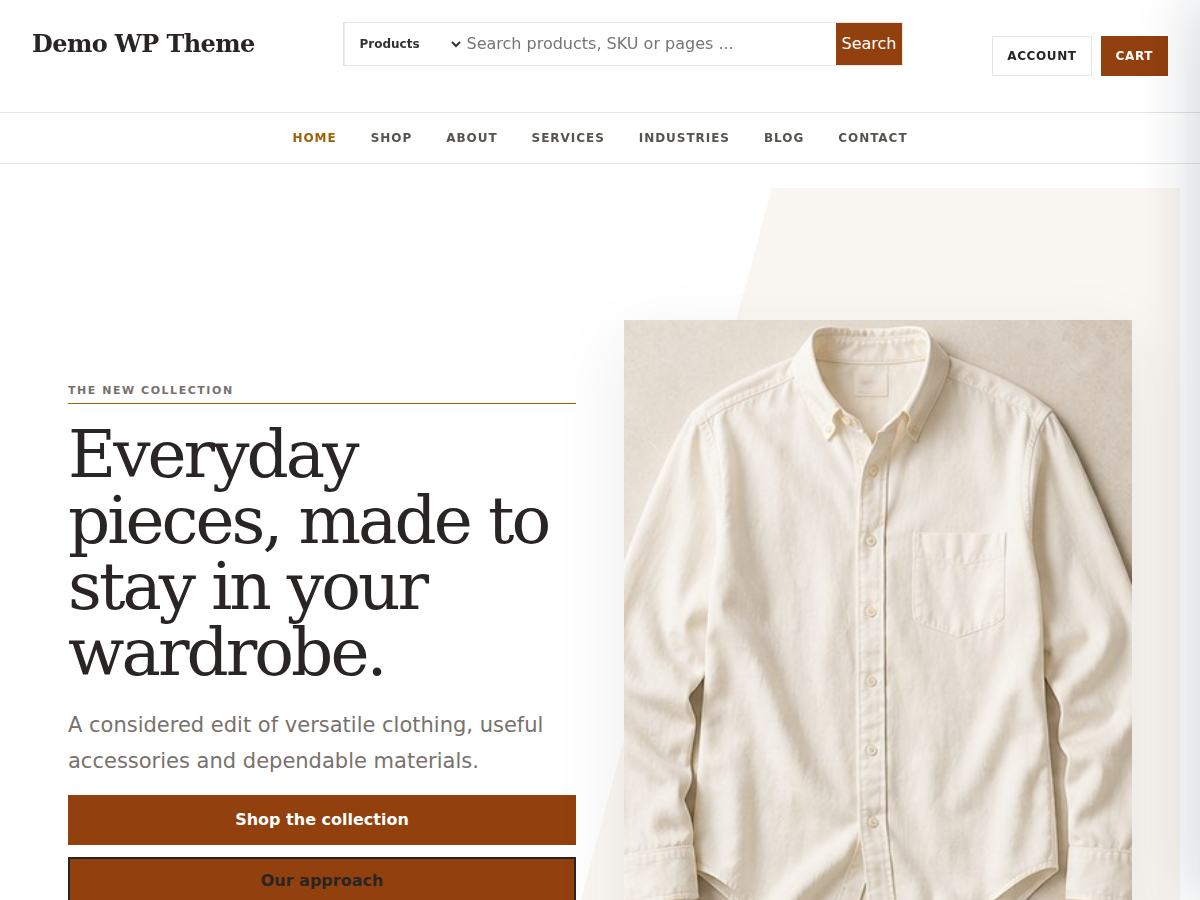
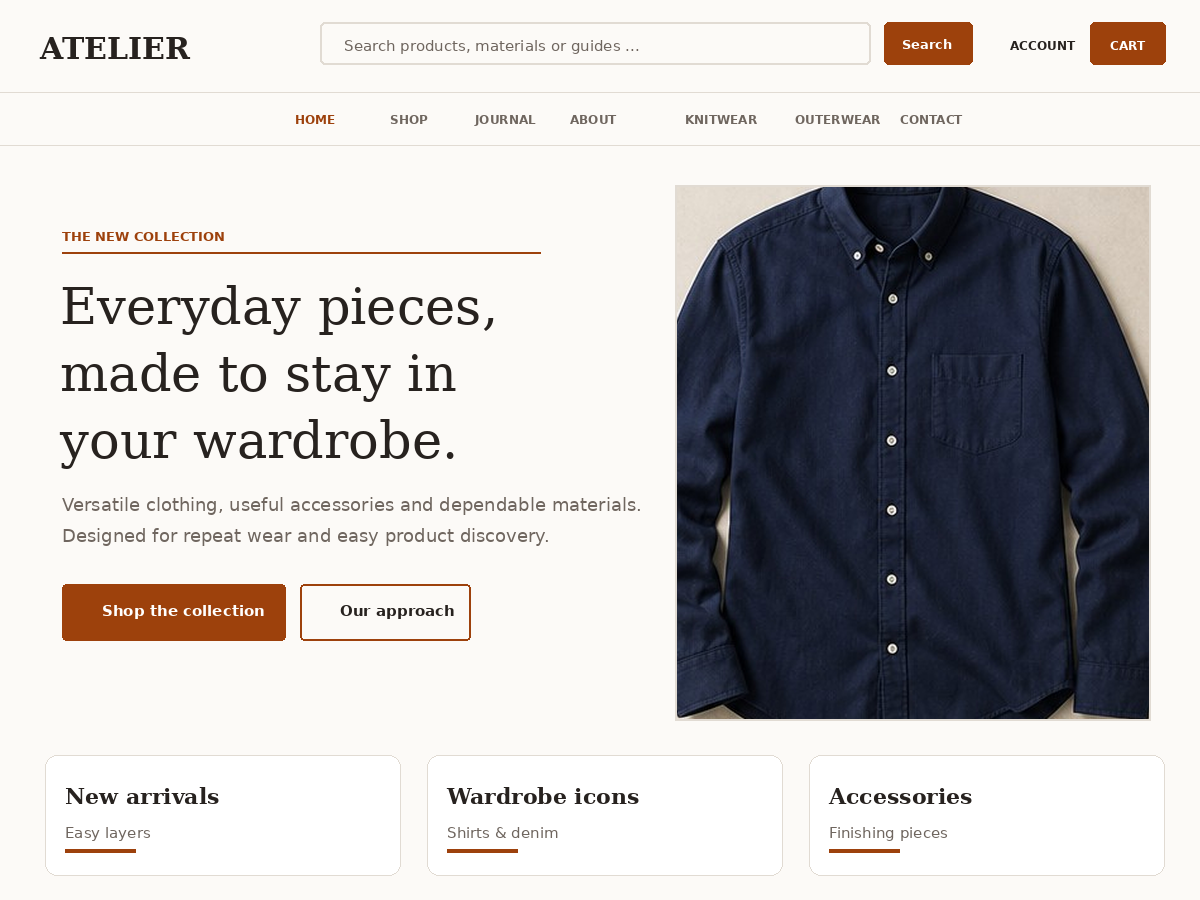
upgrade

diff --git a/style.css b/style.css
@@ -2,8 +2,9 @@
 Theme Name: WP BBTheme Clothes Store
 Description: Fashion ecommerce sector child for WP BBTheme. Directory spelling is retained for project compatibility.
 Template: wp-bbtheme
-Version: 1.1.0
+Version: 2.0.0
 Requires at least: 6.6
+Tested up to: 7.1
 Requires PHP: 8.0
 Text Domain: wp-bbtheme-child-woo-clouthes
 */
@@ -33,3 +34,7 @@ Text Domain: wp-bbtheme-child-woo-clouthes
 .wp-theme-sector-shop .iws-products-grid li.product .price{color:var(--sector-primary)!important;font-weight:700!important}
 @media(max-width:900px){.wp-theme-sector-shop .iws-filter-more__content{grid-template-columns:repeat(2,minmax(0,1fr))}}
 @media(max-width:600px){.wp-theme-sector-shop .iws-filter-more__content{grid-template-columns:1fr}}
+
+
+/* Editorial merchandising additions */
+.wpbb-clothes-category-grid{display:grid;grid-template-columns:repeat(4,minmax(0,1fr));gap:16px}.wpbb-clothes-category-grid a{display:flex;min-height:220px;align-items:flex-end;padding:24px;background:#f4efe8;color:#292524;font-family:Georgia,"Times New Roman",serif;font-size:26px;text-decoration:none}.wpbb-clothes-category-grid a:nth-child(2n){background:#ebe4da}.wpbb-clothes-values{display:grid;grid-template-columns:repeat(3,1fr);gap:22px}.wpbb-clothes-values>div{padding:30px;border-top:1px solid #d6d0c8}.wpbb-clothes-newsletter{padding:clamp(36px,6vw,74px);background:#292524;color:#fff;text-align:center}.wpbb-clothes-newsletter p{max-width:640px;margin-inline:auto;color:#e7e5e4}@media(max-width:800px){.wpbb-clothes-category-grid{grid-template-columns:repeat(2,1fr)}.wpbb-clothes-values{grid-template-columns:1fr}}

diff --git a/patterns/clothes-categories.php b/patterns/clothes-categories.php
@@ -1,0 +1,2 @@
+<?php /** Title: Clothes category editorial grid * Slug: wpbb-clouthes/categories * Categories: wp-patterns-main */ ?>
+<!-- wp:group {"align":"wide"} --><div class="wp-block-group alignwide"><!-- wp:paragraph {"className":"wp-theme-sector-eyebrow"} --><p class="wp-theme-sector-eyebrow">Shop the edit</p><!-- /wp:paragraph --><!-- wp:heading {"level":2} --><h2 class="wp-block-heading">Built around pieces you can repeat.</h2><!-- /wp:heading --><!-- wp:html --><nav class="wpbb-clothes-category-grid" aria-label="Shop categories"><a href="/product-category/shirts/">Shirts</a><a href="/product-category/knitwear/">Knitwear</a><a href="/product-category/outerwear/">Outerwear</a><a href="/product-category/accessories/">Accessories</a></nav><!-- /wp:html --></div><!-- /wp:group -->

diff --git a/patterns/clothes-values.php b/patterns/clothes-values.php
@@ -1,0 +1,2 @@
+<?php /** Title: Clothes store values * Slug: wpbb-clouthes/values * Categories: wp-patterns-main */ ?>
+<!-- wp:group {"align":"wide"} --><div class="wp-block-group alignwide"><!-- wp:html --><div class="wpbb-clothes-values"><div><h3>Natural materials</h3><p>Demo copy for fabric, sourcing and care information.</p></div><div><h3>Considered fit</h3><p>Use swatches and size variations without custom theme logic.</p></div><div><h3>Easy returns</h3><p>Reassuring fulfilment and aftercare messaging.</p></div></div><!-- /wp:html --></div><!-- /wp:group -->

diff --git a/patterns/clothes-newsletter.php b/patterns/clothes-newsletter.php
@@ -1,0 +1,2 @@
+<?php /** Title: Clothes newsletter callout * Slug: wpbb-clouthes/newsletter * Categories: wp-patterns-main */ ?>
+<!-- wp:group {"align":"full","className":"wpbb-clothes-newsletter"} --><div class="wp-block-group alignfull wpbb-clothes-newsletter"><!-- wp:heading {"level":2} --><h2 class="wp-block-heading">Notes from the studio</h2><!-- /wp:heading --><!-- wp:paragraph --><p>New pieces, material stories and useful wardrobe ideas. Connect this pattern to your preferred email form block.</p><!-- /wp:paragraph --></div><!-- /wp:group -->

diff --git a/functions.php b/functions.php
@@ -1,6 +1,12 @@
 <?php
 defined( 'ABSPATH' ) || exit;
 
+
+function wpbb_clouthes_project_mode( $mode ) { return 'woocommerce'; }
+add_filter( 'wp_theme_project_mode', 'wpbb_clouthes_project_mode' );
+function wpbb_clouthes_woo_profile( $profile ) { return 'store'; }
+add_filter( 'wp_theme_woo_support_default_profile', 'wpbb_clouthes_woo_profile' );
+
 function wpbb_clouthes_assets() {
 	$theme = wp_get_theme();
 	wp_enqueue_style( 'wpbb-clouthes', get_stylesheet_uri(), array( 'wp-theme-style' ), $theme->get( 'Version' ) );

diff --git a/README.md b/README.md
@@ -1,2 +1,17 @@
-# wp-bbtheme-child-woo-clouthes
-WordPress Theme - WooCommerce clouthes child
+# WP BBTheme Child — Woo Clothes
+
+Editorial WooCommerce child theme for fashion and apparel stores. The existing package slug `wp-bbtheme-child-woo-clouthes` is intentionally retained for upgrade compatibility.
+
+## Automatic store mode
+
+Activating this theme selects WooCommerce project mode and the Woo Support **Store** profile. WP BBuilder, WooCommerce and WP Theme Woo Support are activated when already installed; missing dependencies are surfaced under **Appearance → Starter Setup**.
+
+## Demo
+
+Starter setup creates/refreshes store pages, modern Woo Cart/Checkout blocks, filters, colour/size attributes, variable products and a complete 12-product apparel catalogue using bundled local demo media. Included patterns cover editorial hero/story, categories, brand values and newsletter CTA.
+
+## Performance
+
+Reusable ecommerce behavior lives in WP Theme Woo Support instead of being duplicated in the child theme. Heavy filter assets are restricted to relevant product/filter screens.
+
+Version 2.0.0; tested up to WordPress 7.1.

diff --git a/CHANGELOG.md b/CHANGELOG.md
@@ -1,0 +1,5 @@
+# Changelog
+
+## 2.0.0 — 2026-08-27
+
+- Expanded editorial store patterns; automatic Woo project mode; 12-product fashion demo retained and integrated.
